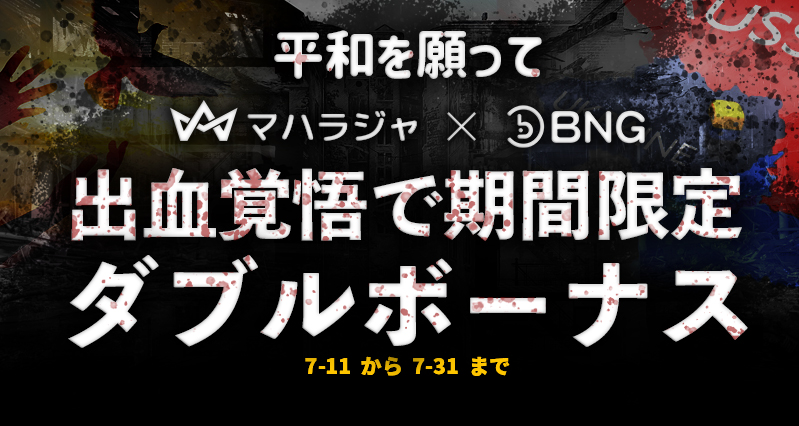
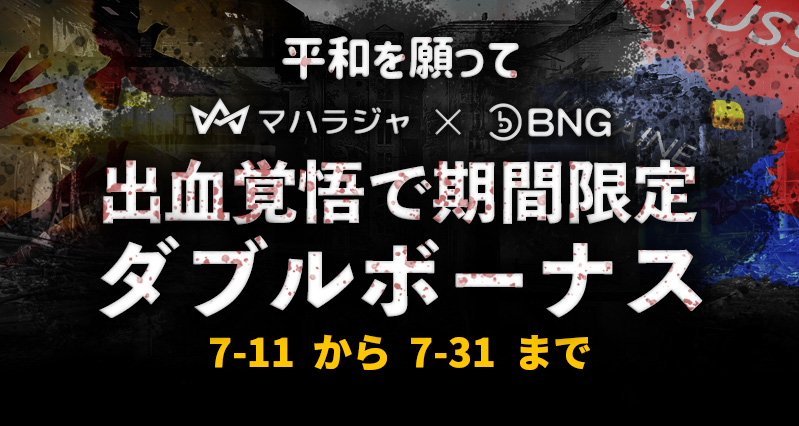
1

diff --git a/Activity/event/bng/bng2207-2/css/main.css b/Activity/event/bng/bng2207-2/css/main.css
@@ -3173,11 +3173,11 @@ h6 {
 }
 @media (max-width: 530px){
     .banner-area-jp {
-    background: url(../img/header-bg-jp2.jpg) center;
+    background: url(../img/header-bg-768.jpg) center;
     background-repeat: no-repeat;
     background-size: cover;
     background-position: top;
-    height: 350px!important;
+    height: 225px!important;
     }
 
 
@@ -3216,14 +3216,14 @@ h6 {
 
     .whole-wrap-area {
         position: relative;
-        top: -150px!important;
+        top: 0px!important;
     }
 }
 @media (max-width: 320px){
 
     .whole-wrap-area {
         position: relative;
-        top: -150px!important;
+        top: 0px!important;
     }
 }
 @media (max-width: 991.98px) {
